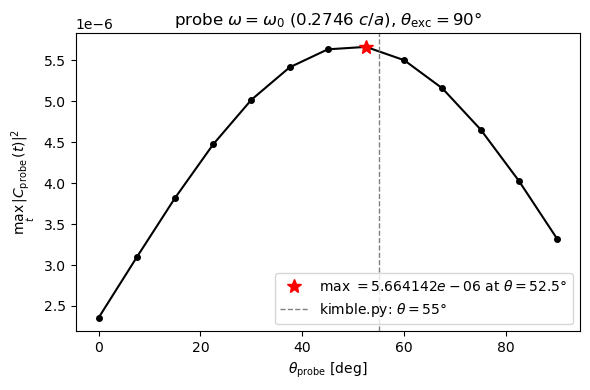
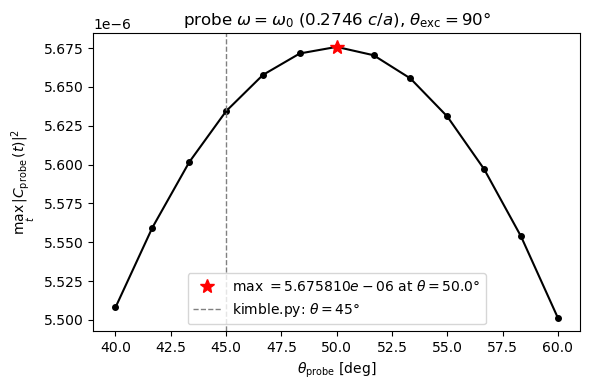
small tweaks

diff --git a/miscellaneous/probe_orientation_vs_nk.py b/miscellaneous/probe_orientation_vs_nk.py
@@ -32,10 +32,10 @@ EXCITED_DIPOLE: np.ndarray = DIP_STRENGTH_NORM * np.array(
 PROBE_R: list = [-5, 5]
 PROBE_DIP_STRENGTH: float = DIP_STRENGTH
 
-PROBE_THETAS: np.ndarray = np.linspace(45, 60, 13) * np.pi / 180
+PROBE_THETAS: np.ndarray = np.linspace(40, 60, 13) * np.pi / 180
 
 FIELDS_DIR: str = "./data/kimble/fields/"
-NK_VALUES: list = [61, 62, 71, 72, 81, 82, 91, 92]
+NK_VALUES: list = [61, 71, 81, 91]
 
 LAT: list = [[1, 0], [0, 1]]
 ORB: list = [[0, 0]]
@@ -55,6 +55,7 @@ T_STEPS: int = 50
 
 
 # %% Helper
+
 
 def compute_pml_dampings(
     rs: np.ndarray, n_cells: int, n_pml: int, gamma_max: float
@@ -95,6 +96,7 @@ def build_tb_variant(j2):
     t_f_internal = T_F / (LAT_PARAM / mf.constants.C_LIGHT * gamma_0)
 
     return finite, omega_0, t_f_internal
+
 
 # %% Main sweep over TB variants and N_K
 
@@ -149,7 +151,9 @@ for label, j2 in TB_VARIANTS.items():
 
             psi0 = np.zeros(H.shape[0])
             psi0[0] = 1
-            psit = expm_multiply(-1j * H, psi0, 0.0, t_f_internal, T_STEPS, endpoint=True)
+            psit = expm_multiply(
+                -1j * H, psi0, 0.0, t_f_internal, T_STEPS, endpoint=True
+            )
             pops[i] = np.max(np.abs(psit[:, 1]) ** 2)
 
             print(f"    θ={np.rad2deg(probe_theta):.1f}° → max pop = {pops[i]:.4e}")
@@ -182,9 +186,18 @@ for col, tb_label in enumerate(col_labels):
     for row, vals in enumerate([thetas, pops_arr]):
         ax = axes[row, col]
         if odd_mask.any():
-            ax.plot(nks[odd_mask], vals[odd_mask], "o", color="C0", label="odd $N_K$", ms=7)
+            ax.plot(
+                nks[odd_mask], vals[odd_mask], "o", color="C0", label="odd $N_K$", ms=7
+            )
         if even_mask.any():
-            ax.plot(nks[even_mask], vals[even_mask], "s", color="C1", label="even $N_K$", ms=7)
+            ax.plot(
+                nks[even_mask],
+                vals[even_mask],
+                "s",
+                color="C1",
+                label="even $N_K$",
+                ms=7,
+            )
         if col == 0:
             ax.set_ylabel(row_labels[row])
         if row == 0:

diff --git a/miscellaneous/probe_orientation_sweep.py b/miscellaneous/probe_orientation_sweep.py
@@ -25,7 +25,7 @@ P_A: float = mf.unit_dip(a=LAT_PARAM)
 DIP_STRENGTH_NORM: float = DIP_STRENGTH / P_A
 
 BAND_IDX: int = 0
-N_K: int = 91
+N_K: int = 92
 
 EXCITED_R: list = [0, 0]
 EXCITED_THETA: float = 90 * np.pi / 180
@@ -36,10 +36,10 @@ EXCITED_DIPOLE: np.ndarray = DIP_STRENGTH_NORM * np.array(
 PROBE_R: list = [-5, 5]
 PROBE_DIP_STRENGTH: float = DIP_STRENGTH  # [Debye]
 N_THETAS: int = 13
-PROBE_THETAS: np.ndarray = np.linspace(45, 60, N_THETAS) * np.pi / 180
+PROBE_THETAS: np.ndarray = np.linspace(40, 60, N_THETAS) * np.pi / 180
 
 # Current kimble.py probe orientation — shown as reference on the plot
-KIMBLE_PROBE_THETA: float = np.deg2rad(55)
+KIMBLE_PROBE_THETA: float = np.deg2rad(45)
 
 LAT: list = [[1, 0], [0, 1]]
 ORB: list = [[0, 0]]
